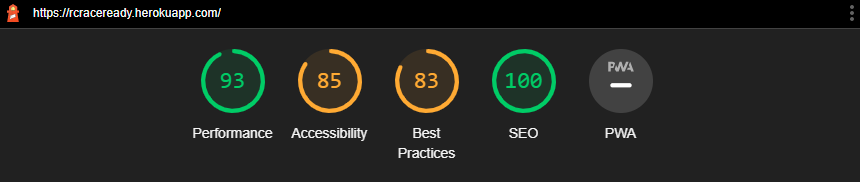
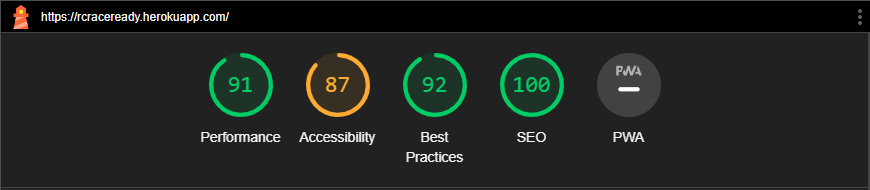
added contactus and events in python validation, fixed html validation issues

diff --git a/templates/includes/footer.html b/templates/includes/footer.html
@@ -22,7 +22,7 @@
             </div>
             <!-- Grid column -->
   
-            <hr class="w-100 clearfix d-md-none"/>
+            <hr class="w-100 clearfix d-md-none">
   
             <!-- Grid column -->
             <div class="col-md-4 col-lg-3 col-xl-3 mx-auto mt-3 text-center">
@@ -33,7 +33,7 @@
             </div>
             <!-- Grid column -->
   
-            <hr class="w-100 clearfix d-md-none"/>
+            <hr class="w-100 clearfix d-md-none">
 
             <!-- Grid column -->
             <div class="col-md-4 col-lg-3 col-xl-3 mx-auto mt-3 ">

diff --git a/templates/base.html b/templates/base.html
@@ -11,7 +11,7 @@
         <meta name="description" content="RCRaceReady is here for all your remote control needs.">
         <meta name="keywords" content="RC, remotecontrol, cars, planes, boats, helicopters,">
         <meta name="author" content="Keith Bautista">
-        <meta name="google-site-verification" content="30AND5WLmtuU2OP-SRHOQaFln2w1Rwn07rZ93CkLtUg"/>
+        <meta name="google-site-verification" content="30AND5WLmtuU2OP-SRHOQaFln2w1Rwn07rZ93CkLtUg">
     {% endblock %}
 
     {% block extra_meta %}

diff --git a/templates/includes/mobile-top-header.html b/templates/includes/mobile-top-header.html
@@ -3,7 +3,7 @@
         <a class="text-black nav-link d-block d-lg-none" href="#" id="mobile-search" data-toggle="dropdown" aria-haspopup="true" aria-expanded="false">
             <div class="text-center cool-link-nav">
                 <div><i class="fas fa-search fa-lg"></i></div>
-                <p class="my-0">TESTT</p>
+                <p class="my-0">Search</p>
             </div>
         </a>
         <div class="dropdown-menu border-0 w-100 p-3 rounded-0 my-0" aria-labelledby="mobile-search">

diff --git a/rcraceready/settings.py b/rcraceready/settings.py
@@ -27,8 +27,8 @@ BASE_DIR = Path(__file__).resolve().parent.parent
 SECRET_KEY = os.environ.get('SECRET_KEY', '')
 
 # SECURITY WARNING: don't run with debug turned on in production!
-DEBUG = True
-# 'DEVELOPMENT' in os.environ
+DEBUG = 'DEVELOPMENT' in os.environ
+
 ALLOWED_HOSTS = ['rcraceready.herokuapp.com', 'localhost']
 
 

diff --git a/TESTING.md b/TESTING.md
@@ -40,6 +40,21 @@ Back to the [README](README.md)
 * [urls.py](assets/readme/testing/pythonValidation/urlsProfile.png)
 * [views.py](assets/readme/testing/pythonValidation/urlsProfile.png)
 
+#### RCRaceReady - ContactUs
+* [admin.py](assets/readme/testing/pythonValidation/adminContactUs.png)
+* [apps.py](assets/readme/testing/pythonValidation/appsContactUs.png)
+* [models.py](assets/readme/testing/pythonValidation/modelsContactUs.png)
+* [urls.py](assets/readme/testing/pythonValidation/urlsContactUs.png)
+* [views.py](assets/readme/testing/pythonValidation/viewsContactUs.png)
+* [forms.py](assets/readme/testing/pythonValidation/formsContactUs.png)
+
+#### RCRaceReady - Events
+* [admin.py](assets/readme/testing/pythonValidation/adminEvents.png)
+* [apps.py](assets/readme/testing/pythonValidation/appsEvents.png)
+* [models.py](assets/readme/testing/pythonValidation/modelsEvents.png)
+* [urls.py](assets/readme/testing/pythonValidation/urlsEvents.png)
+* [views.py](assets/readme/testing/pythonValidation/viewsEvents.png)
+
 ## HTML Validation
 ![HTML Validation Result](assets/readme/testing/htmlValidation.png)
 * Unfortunately with regards to the HTML there were 4 errors that had occured in which in the end I was not able to fix, along with one stray div in a pool 276 divs total in the file.
@@ -59,6 +74,8 @@ Back to the [README](README.md)
   <li>Home</li>
   <li>Products</li>
   <li>Profile</li>
+  <li>ContactUs</li>
+  <li>Events</li>
 </ol>
 
 ## Manual Testing
